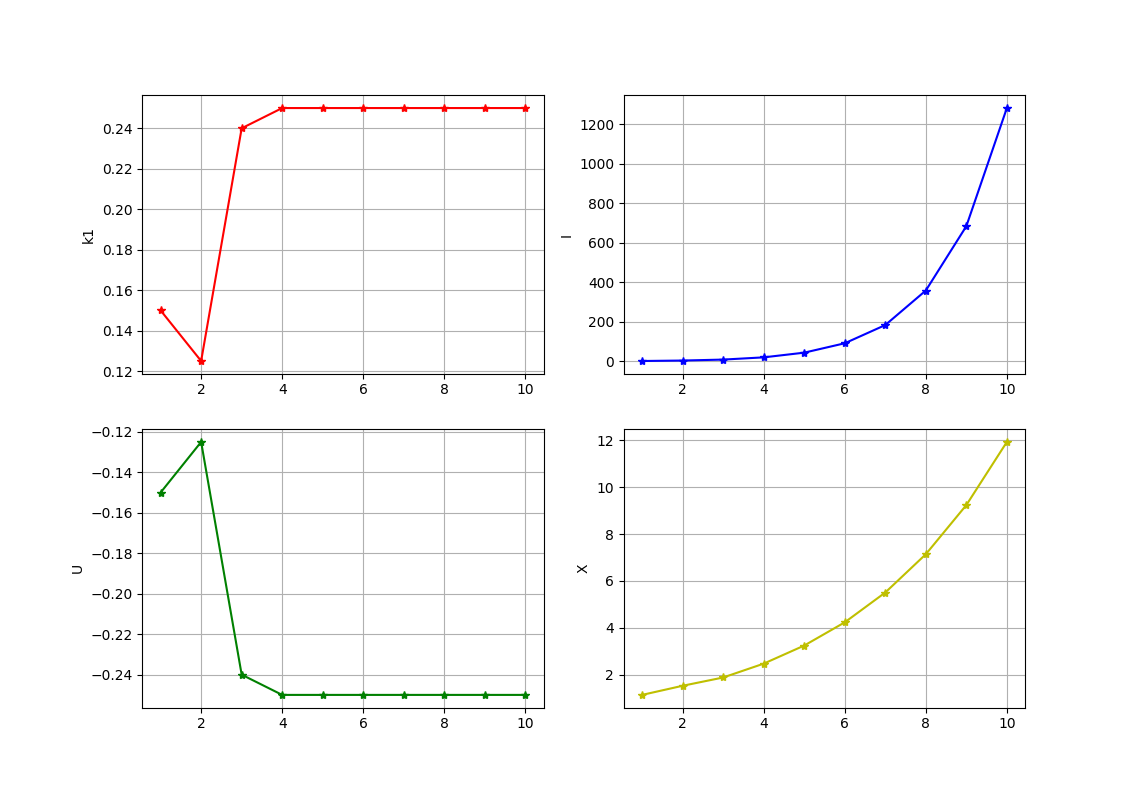
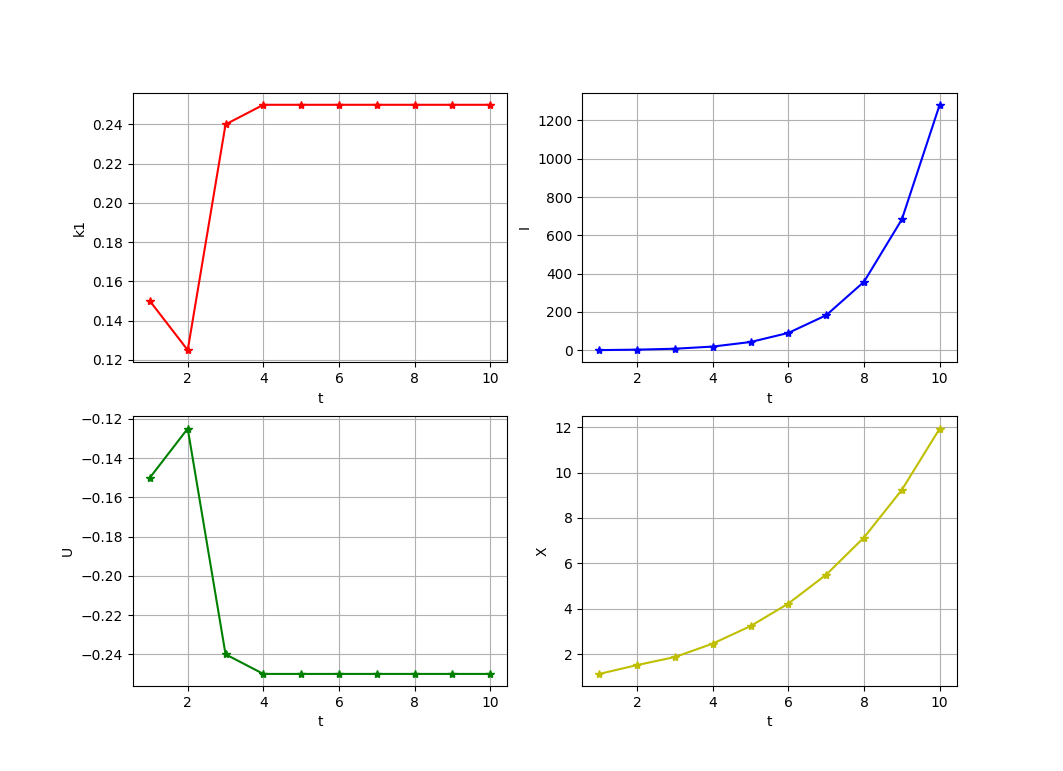
Updated program solution

diff --git a/models.py b/models.py
@@ -68,21 +68,25 @@ def run():
     plt.figure()
     plt.subplot(221)
     plt.plot(de_method.tf, de_method._k1.values(), 'r-*')
+    plt.xlabel('t')
     plt.ylabel('k1')
     plt.grid(True)
 
     plt.subplot(223)
     plt.plot(de_method.tf, U, 'g-*')
+    plt.xlabel('t')
     plt.ylabel('U')
     plt.grid(True)
 
     plt.subplot(222)
     plt.plot(de_method.tf, I, 'b-*')
+    plt.xlabel('t')
     plt.ylabel('I')
     plt.grid(True)
 
     plt.subplot(224)
     plt.plot(de_method.tf, X, 'y-*')
+    plt.xlabel('t')
     plt.ylabel('X')
     plt.grid(True)
     plt.show()
